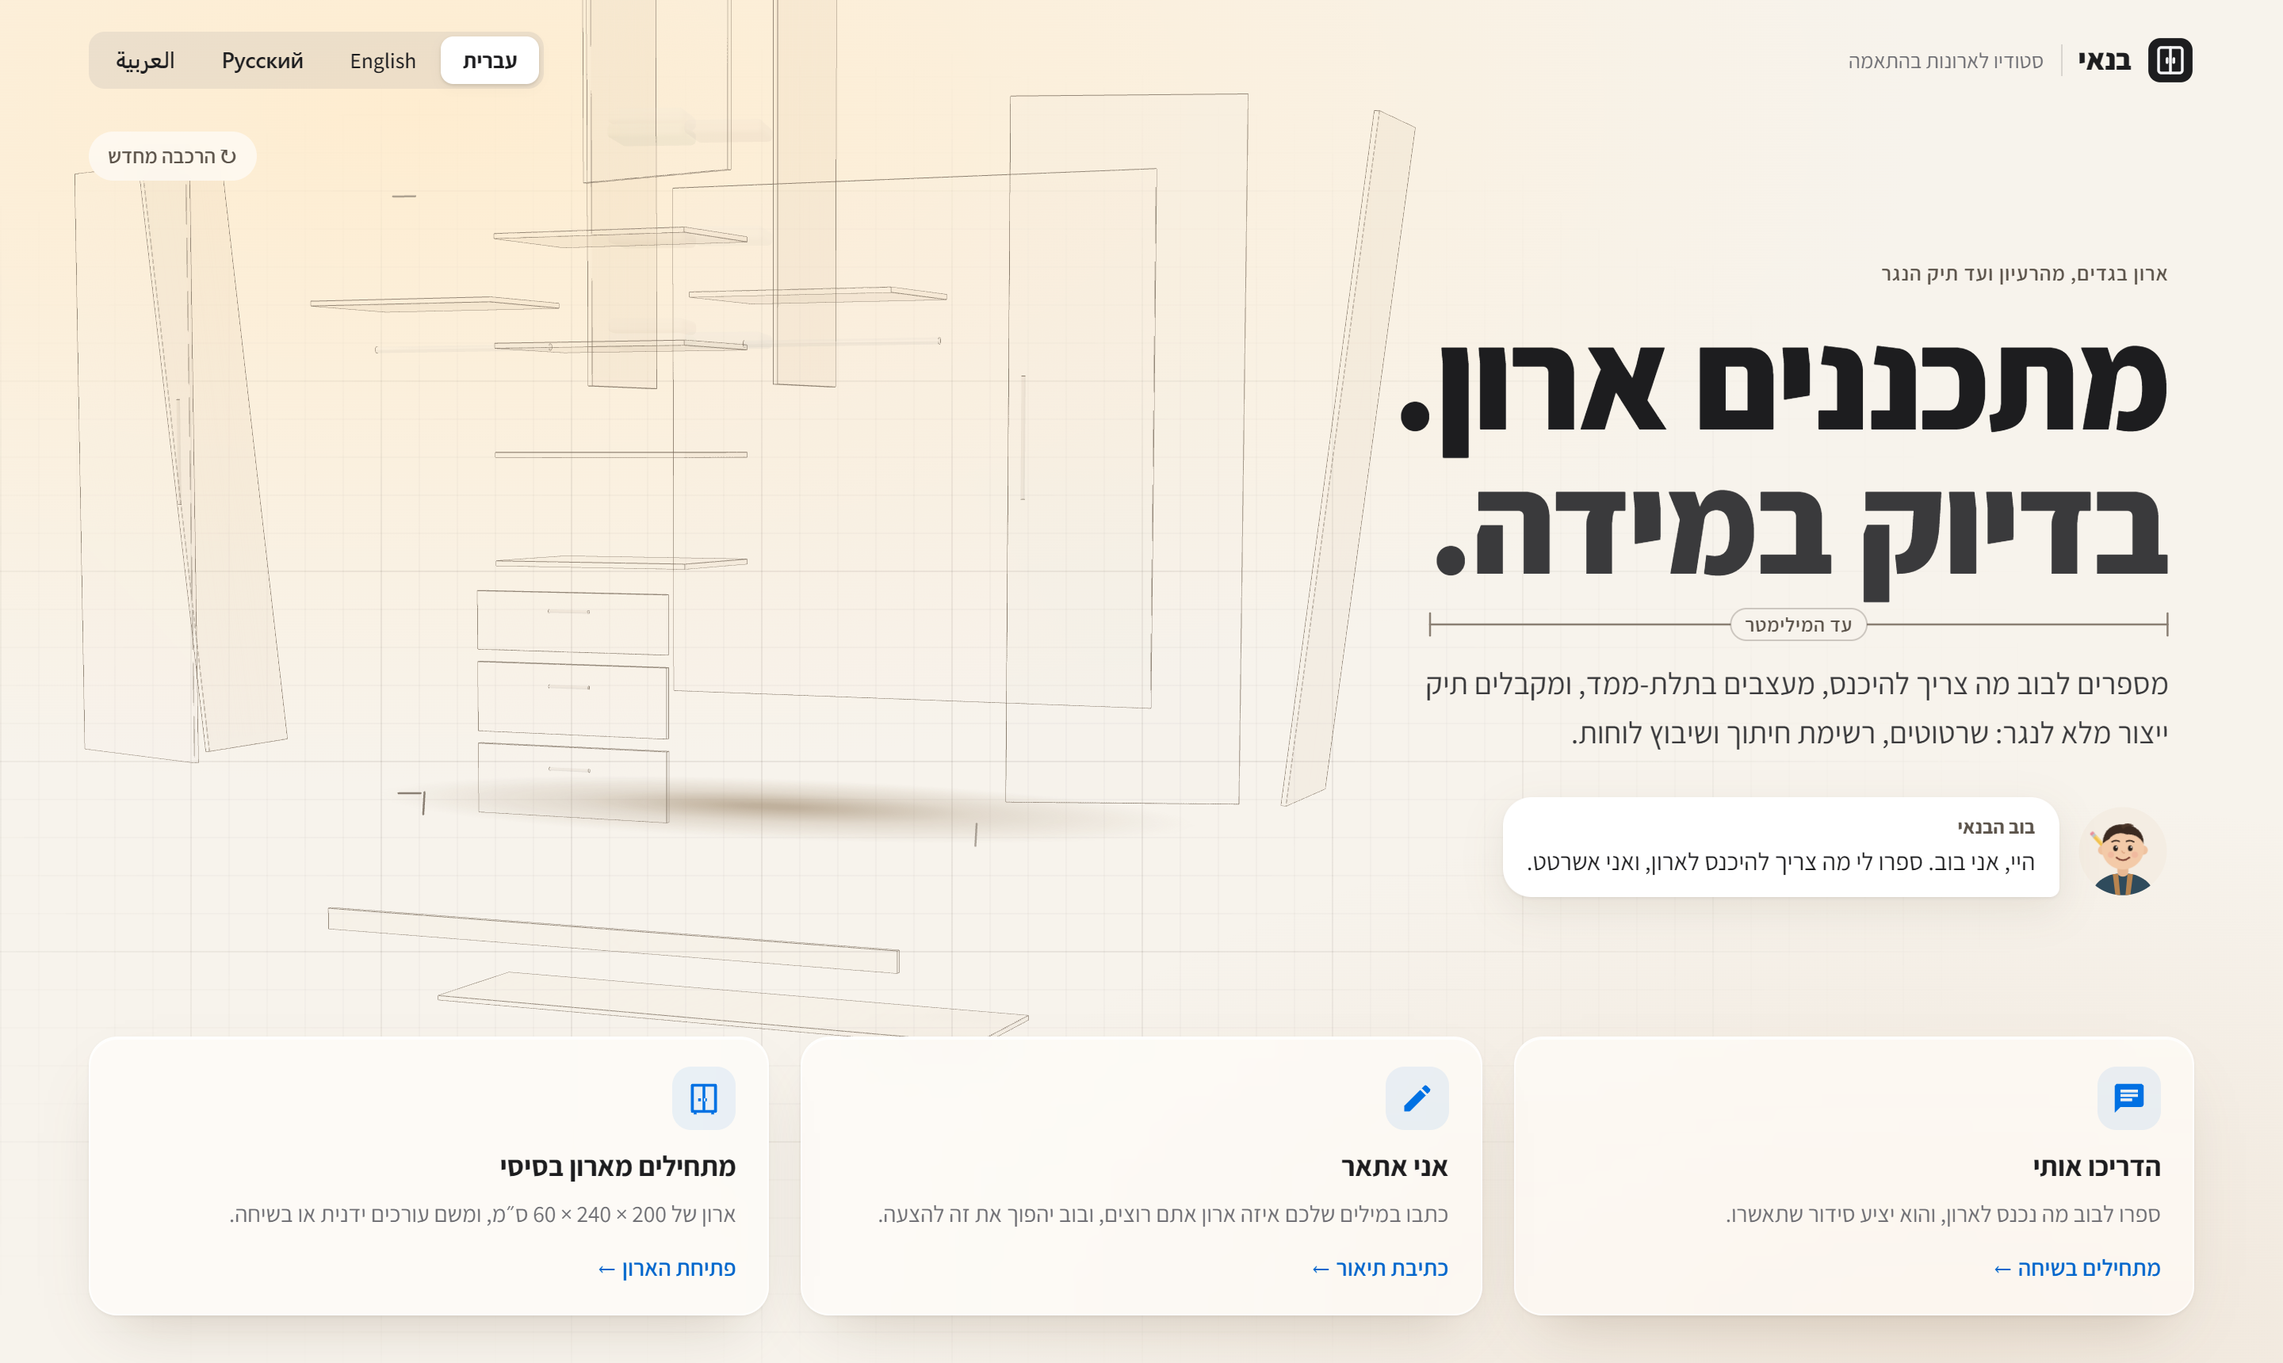
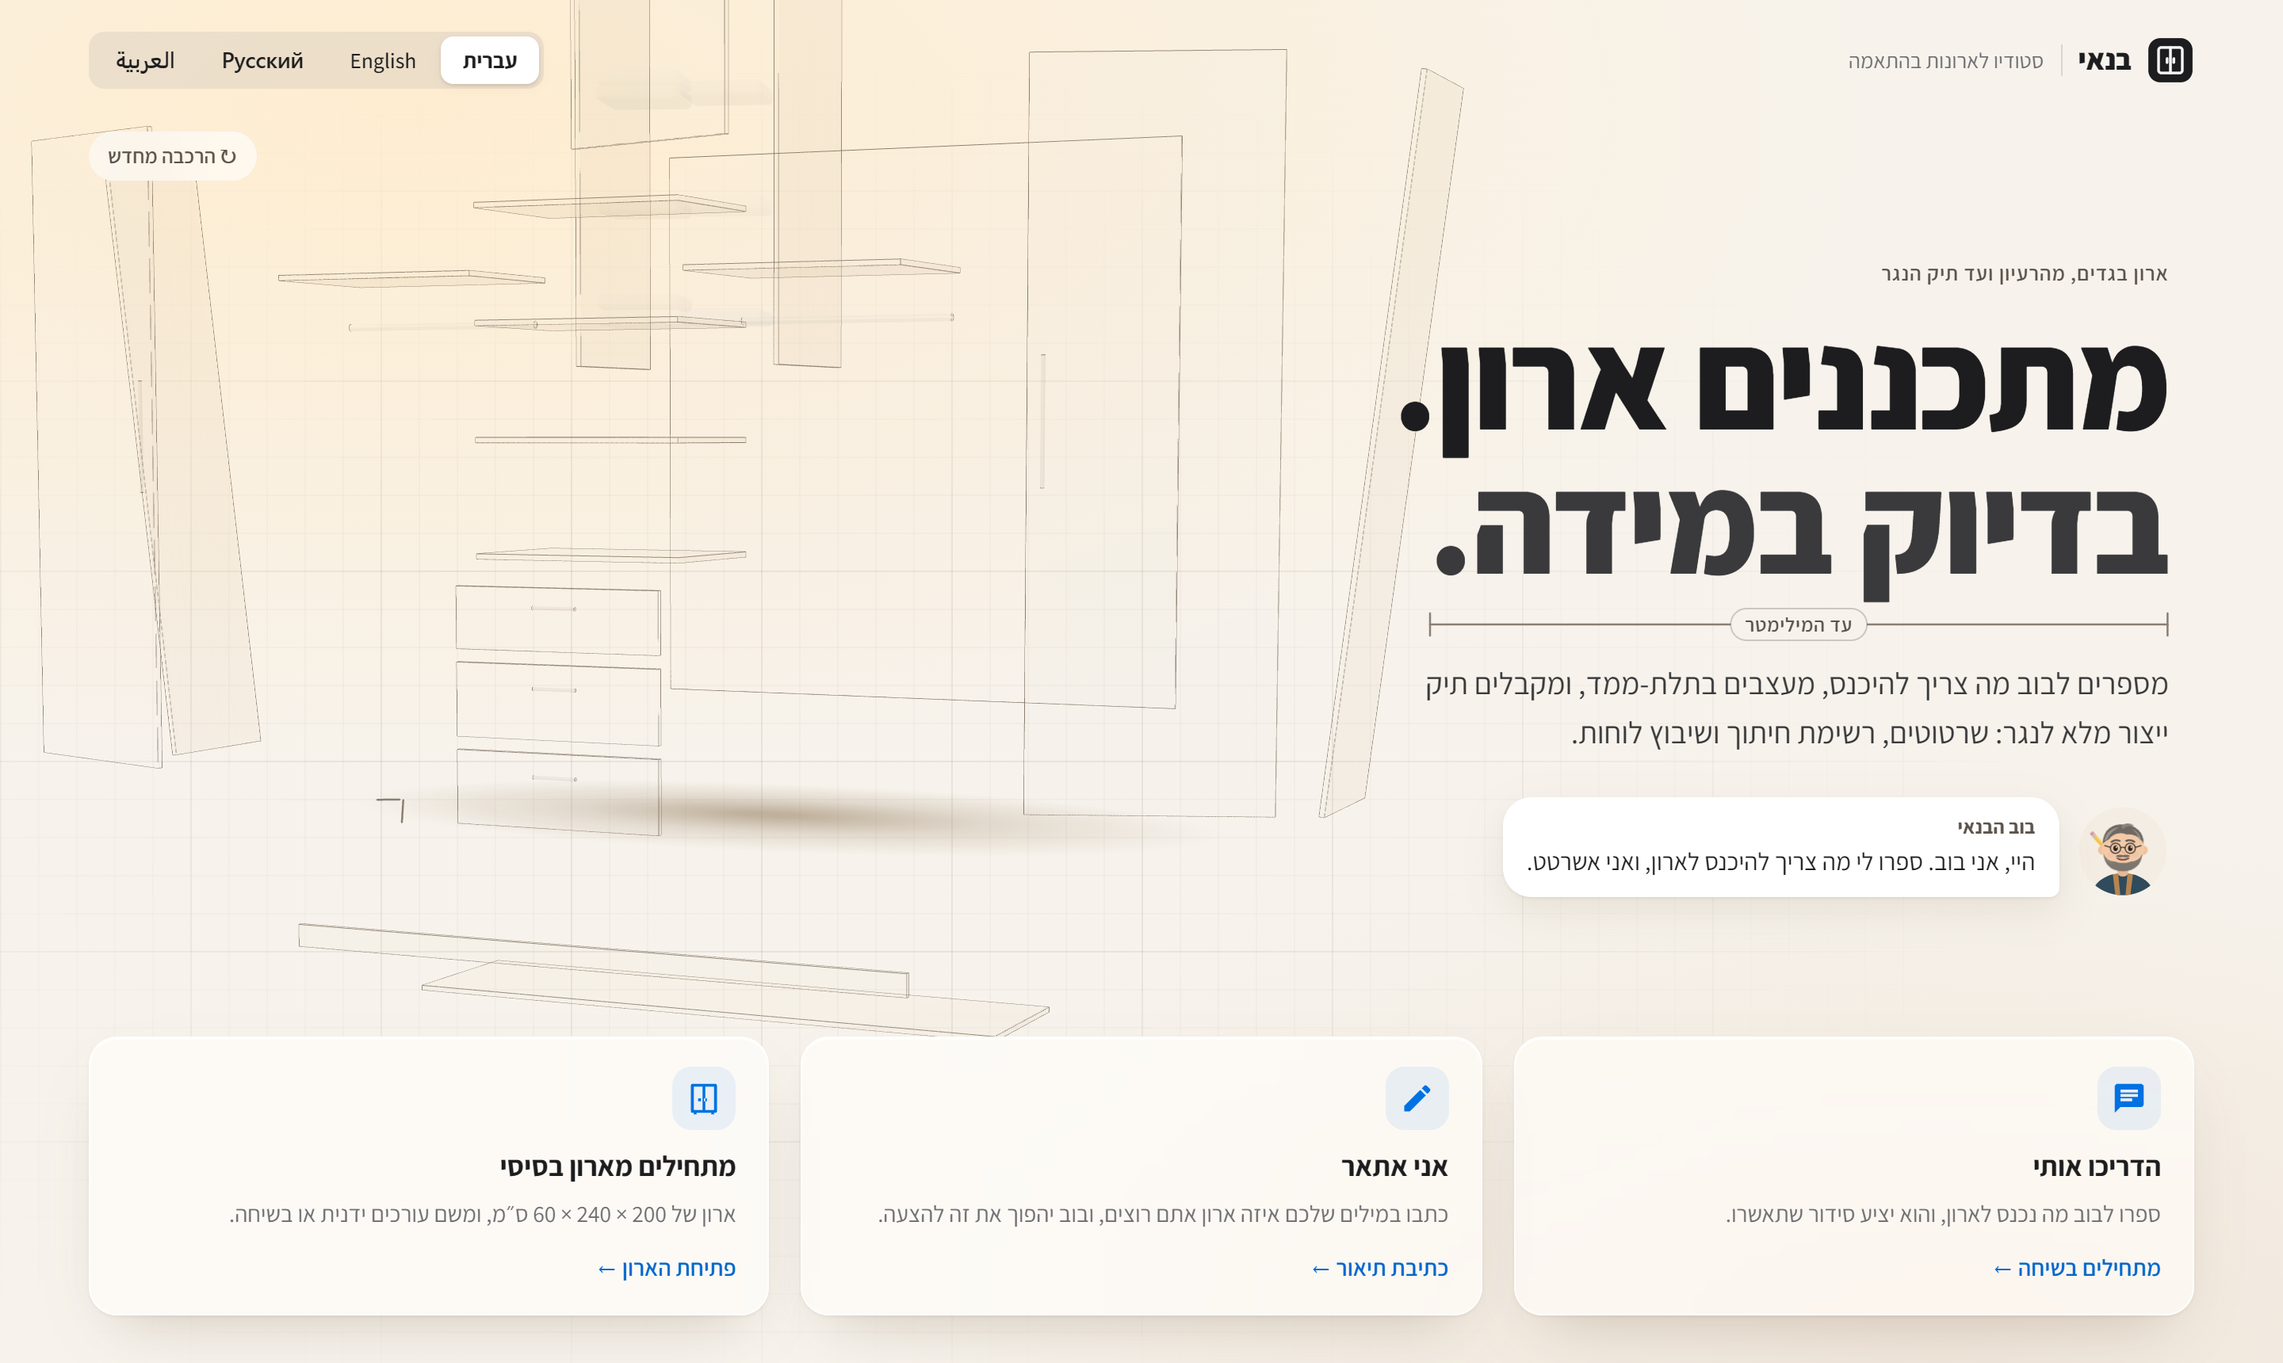
proto(p3): About page with a fictional master carpenter
The user found "a young carpenter who smiles" infantile. The Bob section
becomes an About page: a fictional persona (31 years in the workshop since
1994, 1,284 custom wardrobes, 20 advisory rules, 1 mm tolerance), a quote,
and how BanAI learned his rules. Stats count up over a pencil dimension line.
Bob's drawing is now a man in his fifties: greying hair, a short beard,
thin glasses, a calmer smile. The page and an HTML comment say the persona
and figures are fictional.

diff --git a/prototypes/p3-atelier/index.html b/prototypes/p3-atelier/index.html
@@ -104,33 +104,45 @@
     </div>
   </section>
 
-  <!-- 3. Bob -->
-  <section class="board board--bob" aria-labelledby="bob-title">
-    <header class="board__head">
-      <p class="eyebrow">בוב הבנאי</p>
-      <h2 id="bob-title" class="board__title">נגר צעיר שמחייך, לא איש מכירות</h2>
-      <p class="board__lead">ציור מקורי שלנו, לא הדמות מהטלוויזיה. עיפרון מאחורי האוזן, סינר עור, ומבט שמקשיב. כשבוב מדבר, הפה וההילה החמה עוקבים אחרי עוצמת הקול האמיתית.</p>
-    </header>
-    <div class="bob-stage">
+  <!-- 3. About. The persona and every figure here are fictional (the user asked for an invented, impressive
+       story for this study project). They are not claims about a real person or business. -->
+  <section class="about" aria-labelledby="about-title">
+    <div class="about__portrait">
       <div id="bob-big"></div>
-      <div class="bob-stage__side">
-        <div class="segmented segmented--wide" role="group" aria-label="מצב של בוב">
-          <button type="button" data-state="idle" aria-pressed="true">רגוע</button>
-          <button type="button" data-state="thinking" aria-pressed="false">חושב</button>
-          <button type="button" data-state="speaking" aria-pressed="false">מדבר</button>
-          <button type="button" data-state="happy" aria-pressed="false">שמח</button>
-        </div>
-        <p class="bob-stage__status" id="bob-status" aria-live="polite">בוב רגוע ומקשיב.</p>
-        <div class="chat-head">
-          <div id="bob-head"></div>
-          <div class="chat-head__text"><b>בוב הבנאי</b><span>רואה את התכנון · מציע, ואתם מאשרים</span></div>
-          <span class="chat-head__pill" id="bob-pill" hidden>בוב מדבר · קול שנוצר ב-AI</span>
-        </div>
+      <p class="about__sign">בוב · מאסטר נגר</p>
+    </div>
+    <div class="about__story">
+      <p class="eyebrow">אודות</p>
+      <h2 id="about-title" class="about__title">שלושים ואחת שנה בסדנה.<br>עכשיו בכל בית.</h2>
+      <p class="about__lead">בוב נכנס לסדנה של סבא שלו בשנת 1994, עם מסור יד ועיפרון מאחורי האוזן. מאז הוא תכנן ובנה יותר מאלף ארונות בהתאמה: נישות עקומות בבתים ישנים, חדרי ילדים צרים, וחדרי ארונות שלמים שאף מידה בהם לא הייתה ישרה.</p>
+      <blockquote class="about__quote">
+        <p>״אני לא מוכר ארונות. אני דואג שאף אחד לא יטעה במידה.״</p>
+      </blockquote>
+      <p class="about__text">בנאי נולד כשבוב ישב עם צוות קטן ולימד אותו את מה שלקח לו שלושים שנה ללמוד: עשרים כללי ייעוץ מבוססי מחקר, שיטת בנייה אחת מוצהרת, ותיק נגר שאף נגר לא צריך לנחש ממנו. הוא עדיין חותם על כל כלל לפני שהוא נכנס לאפליקציה.</p>
+      <dl class="about__stats">
+        <div class="stat"><dt>שנים בסדנה</dt><dd><span class="stat__value" data-count="31">31</span></dd></div>
+        <div class="stat"><dt>ארונות בהתאמה</dt><dd><span class="stat__value" data-count="1284">1,284</span></dd></div>
+        <div class="stat"><dt>כללי ייעוץ</dt><dd><span class="stat__value" data-count="20">20</span></dd></div>
+        <div class="stat"><dt>סבולת חיתוך, במ״מ</dt><dd><span class="stat__value" data-count="1">1</span></dd></div>
+      </dl>
+    </div>
+    <div class="about__states">
+      <div class="segmented segmented--wide" role="group" aria-label="בוב בשיחה">
+        <button type="button" data-state="idle" aria-pressed="true">מקשיב</button>
+        <button type="button" data-state="thinking" aria-pressed="false">חושב</button>
+        <button type="button" data-state="speaking" aria-pressed="false">מדבר</button>
+        <button type="button" data-state="happy" aria-pressed="false">מרוצה</button>
+      </div>
+      <p class="bob-stage__status" id="bob-status" aria-live="polite">בוב מקשיב.</p>
+      <div class="chat-head">
+        <div id="bob-head"></div>
+        <div class="chat-head__text"><b>בוב הבנאי</b><span>רואה את התכנון · מציע, ואתם מאשרים</span></div>
+        <span class="chat-head__pill" id="bob-pill" hidden>בוב מדבר · קול שנוצר ב-AI</span>
       </div>
     </div>
   </section>
 
-  <footer class="proto-note">אב-טיפוס P3 · לבדיקה ויזואלית בלבד · עדיין לא באפליקציה</footer>
+  <footer class="proto-note">אב-טיפוס P3 · לבדיקה ויזואלית בלבד · עדיין לא באפליקציה · הדמות והנתונים בעמוד בדיוניים</footer>
   <script type="module" src="js/main.js"></script>
 </body>
 </html>

diff --git a/prototypes/p3-atelier/js/bob.js b/prototypes/p3-atelier/js/bob.js
@@ -1,6 +1,6 @@
-// Bob the Builder, our own drawing (not the TV character): a young carpenter with a pencil behind his
-// ear, drawn in flat geometric shapes. States: idle (breathes, blinks), thinking (looks up, dots),
-// speaking (the mouth and the warm glow follow the voice level), happy (smiling eyes, a small hop).
+// Bob, our own drawing (not the TV character): a master carpenter in his fifties (greying hair, a short beard,
+// thin glasses) with a pencil behind his ear, drawn in flat geometric shapes. States: idle (breathes, blinks), thinking (looks up, dots),
+// speaking (the mouth and the warm glow follow the voice level), pleased (closed eyes, a small nod).
 // Decorative: aria-hidden, the state is announced in text by whoever uses it.
 const NS = 'http://www.w3.org/2000/svg';
 const reduced = () => window.matchMedia('(prefers-reduced-motion: reduce)').matches;
@@ -42,11 +42,13 @@ const ART = `
       <circle cx="144" cy="98" r="10" fill="#efc29f"/>
       <circle cx="100" cy="94" r="46" fill="#f3caa8"/>
       <!-- hair -->
-      <path d="M56 84 C56 52 80 40 102 42 C128 44 146 58 145 84 C138 70 124 62 108 64 C96 58 78 62 70 74 C64 78 60 80 56 84 Z" fill="#3b2a20"/>
-      <path d="M96 46 C104 38 118 38 124 46 C116 44 106 46 100 52 Z" fill="#4a3528"/>
+      <path d="M56 84 C56 52 80 40 102 42 C128 44 146 58 145 84 C138 70 124 62 108 64 C96 58 78 62 70 74 C64 78 60 80 56 84 Z" fill="#6f6862"/>
+      <path d="M60 78 C62 60 76 50 92 48 C80 54 70 62 66 74 Z" fill="#a8a29c" opacity="0.8"/>
+      <path d="M140 78 C138 64 130 56 120 52 C128 58 134 66 136 76 Z" fill="#a8a29c" opacity="0.7"/>
+      <path d="M96 46 C104 38 118 38 124 46 C116 44 106 46 100 52 Z" fill="#8a837c"/>
       <g class="bob__brows">
-        <path d="M76 80 Q84 75 92 79" stroke="#3b2a20" stroke-width="3.2" fill="none" stroke-linecap="round"/>
-        <path d="M108 79 Q116 75 124 80" stroke="#3b2a20" stroke-width="3.2" fill="none" stroke-linecap="round"/>
+        <path d="M75 80 Q84 74 93 78" stroke="#5e5852" stroke-width="4" fill="none" stroke-linecap="round"/>
+        <path d="M107 78 Q116 74 125 80" stroke="#5e5852" stroke-width="4" fill="none" stroke-linecap="round"/>
       </g>
       <g class="bob__eyes">
         <g class="bob__eyes-open">
@@ -60,10 +62,20 @@ const ART = `
           <path d="M110 96 Q116 88 122 96" stroke="#2a211c" stroke-width="3.4" fill="none" stroke-linecap="round"/>
         </g>
       </g>
-      <circle cx="74" cy="108" r="7" fill="#ee9e8f" opacity="0.35"/>
-      <circle cx="126" cy="108" r="7" fill="#ee9e8f" opacity="0.35"/>
+      <circle cx="74" cy="108" r="7" fill="#e0a08f" opacity="0.12"/>
+      <circle cx="126" cy="108" r="7" fill="#e0a08f" opacity="0.12"/>
       <path d="M98 100 Q100 106 104 104" stroke="#d9a07c" stroke-width="2.4" fill="none" stroke-linecap="round"/>
-      <path class="bob__smile" d="M86 114 Q100 126 114 114" stroke="#7a3e30" stroke-width="3.4" fill="none" stroke-linecap="round"/>
+      <path d="M58 106 C59 132 78 144 100 144 C122 144 141 132 142 106 C137 118 128 123 116 123 C110 127 90 127 84 123 C72 123 63 118 58 106 Z" fill="#7d766f"/>
+      <path d="M58 106 C61 121 70 127 82 129 C70 125 63 119 58 106 Z" fill="#a8a29c" opacity="0.5"/>
+      <path d="M84 111 Q92 106 100 109 Q108 106 116 111 Q110 115 100 113 Q90 115 84 111 Z" fill="#6f6862"/>
+      <g class="bob__glasses" fill="none" stroke="#2f2a26" stroke-width="2.2">
+        <circle cx="84" cy="94" r="11"/>
+        <circle cx="116" cy="94" r="11"/>
+        <path d="M95 93 Q100 90 105 93"/>
+        <path d="M73 92 L60 88"/>
+        <path d="M127 92 L140 88"/>
+      </g>
+      <path class="bob__smile" d="M88 116 Q100 122 112 116" stroke="#7a3e30" stroke-width="3.4" fill="none" stroke-linecap="round"/>
       <g class="bob__talk">
         <ellipse class="bob__mouth" cx="100" cy="117" rx="9" ry="6" fill="#6b2f27"/>
         <ellipse class="bob__tongue" cx="100" cy="121" rx="5" ry="2.4" fill="#e07f78"/>

diff --git a/prototypes/p3-atelier/styles.css b/prototypes/p3-atelier/styles.css
@@ -265,8 +265,36 @@ button { font: inherit; color: inherit; }
 
 .proto-note { padding: 1.4rem; text-align: center; color: var(--muted); font-size: 0.85rem; background: var(--paper); }
 
+/* ---------- About: a fictional master carpenter ---------- */
+.about {
+  display: grid;
+  grid-template-columns: minmax(14rem, 0.8fr) minmax(0, 1.6fr);
+  grid-template-areas: "portrait story" "portrait states";
+  gap: 2.5rem clamp(2rem, 6vw, 6rem);
+  padding: clamp(3.5rem, 10vh, 7rem) clamp(1.25rem, 5vw, 4.5rem);
+  background: linear-gradient(180deg, #fff 0%, var(--paper) 100%);
+}
+.about__portrait { grid-area: portrait; display: grid; justify-items: center; align-content: start; gap: 1rem; position: sticky; top: 2rem; }
+.about__sign { margin: 0; color: var(--graphite-ink); font-weight: 600; letter-spacing: 0.04em; }
+.about__story { grid-area: story; max-width: 44rem; }
+.about__title { margin: 0 0 1.4rem; font-size: clamp(2.2rem, 4.6vw, 3.8rem); font-weight: 800; line-height: 1.04; letter-spacing: -0.015em; text-wrap: balance; }
+.about__lead { margin: 0 0 1.6rem; font-size: clamp(1.1rem, 1.5vw, 1.3rem); line-height: 1.6; color: var(--ink-2); }
+.about__quote { margin: 0 0 1.6rem; padding-inline-start: 1.2rem; border-inline-start: 2px solid var(--wood); }
+.about__quote p { margin: 0; font-size: clamp(1.3rem, 2vw, 1.65rem); font-weight: 700; line-height: 1.35; letter-spacing: -0.005em; }
+.about__text { margin: 0 0 2.6rem; color: var(--ink-2); font-size: 1.05rem; line-height: 1.65; }
+.about__stats { display: grid; grid-template-columns: repeat(4, minmax(0, 1fr)); gap: 1.5rem; margin: 0; }
+.stat { display: grid; gap: 0.35rem; align-content: start; }
+.stat dt { order: 2; color: var(--muted); font-size: 0.9rem; margin-top: 2.4rem; }
+.stat dd { order: 1; margin: 0; }
+.stat__value { display: inline-block; min-width: 4.5rem; font-size: clamp(2rem, 3.4vw, 2.9rem); font-weight: 800; line-height: 1; letter-spacing: -0.02em; font-variant-numeric: tabular-nums; }
+.stat__value .measure__pill { display: none; } /* the number is the label */
+.about__states { grid-area: states; display: grid; gap: 1rem; max-width: 30rem; }
+
 /* ---------- Narrow screens: the wardrobe above, the copy below ---------- */
 @media (max-width: 900px) {
+  .about { grid-template-columns: 1fr; grid-template-areas: "portrait" "story" "states"; }
+  .about__portrait { position: static; }
+  .about__stats { grid-template-columns: repeat(2, minmax(0, 1fr)); row-gap: 2rem; }
   .hero { grid-template-columns: 1fr; grid-template-rows: auto 46svh auto auto; }
   .hero__bar { grid-row: 1; flex-wrap: wrap; row-gap: 0.6rem; padding-block: 0.9rem; }
   .hero__copy { grid-row: 3; padding-top: 0.5rem; }

diff --git a/prototypes/p3-atelier/js/main.js b/prototypes/p3-atelier/js/main.js
@@ -73,13 +73,36 @@ measure($('#demo-column'), { side: 'side', count: 64, unit: ' ס״מ', gap: 10 }
 const bigBob = createBob($('#bob-big'), { size: 220 });
 const headBob = createBob($('#bob-head'), { size: 44 });
 const STATUS = {
-  idle: 'בוב רגוע ומקשיב.',
-  thinking: 'בוב חושב על ההצעה.',
+  idle: 'בוב מקשיב.',
+  thinking: 'בוב שוקל את ההצעה.',
   speaking: 'בוב מדבר. הפה וההילה עוקבים אחרי עוצמת הקול.',
-  happy: 'בוב שמח: ההצעה אושרה.',
+  happy: 'ההצעה אושרה.',
 };
+
+// The About figures count up under a pencil dimension line: the signature, with a purpose.
+document.querySelectorAll('.stat__value').forEach((node, i) => {
+  const target = Number(node.dataset.count);
+  const number = document.createElement('span');
+  number.textContent = target.toLocaleString('en-US');
+  node.replaceChildren(number);
+  measure(node, { label: '', delay: 150 + i * 120 });
+  if (reducedMotion) return;
+  number.textContent = '0';
+  const io = new IntersectionObserver((entries) => {
+    if (!entries.some((e) => e.isIntersecting)) return;
+    io.disconnect();
+    const begin = performance.now() + 150 + i * 120;
+    const step = (now) => {
+      const p = Math.max(0, Math.min(1, (now - begin) / 1300));
+      number.textContent = Math.round(target * (1 - (1 - p) ** 3)).toLocaleString('en-US');
+      if (p < 1) requestAnimationFrame(step);
+    };
+    requestAnimationFrame(step);
+  }, { threshold: 0.5 });
+  io.observe(node);
+});
 let stopBig = () => {};
-document.querySelectorAll('.bob-stage .segmented button').forEach((button, _, all) => button.addEventListener('click', () => {
+document.querySelectorAll('.about__states .segmented button').forEach((button, _, all) => button.addEventListener('click', () => {
   const state = button.dataset.state;
   all.forEach((b) => b.setAttribute('aria-pressed', String(b === button)));
   stopBig();
